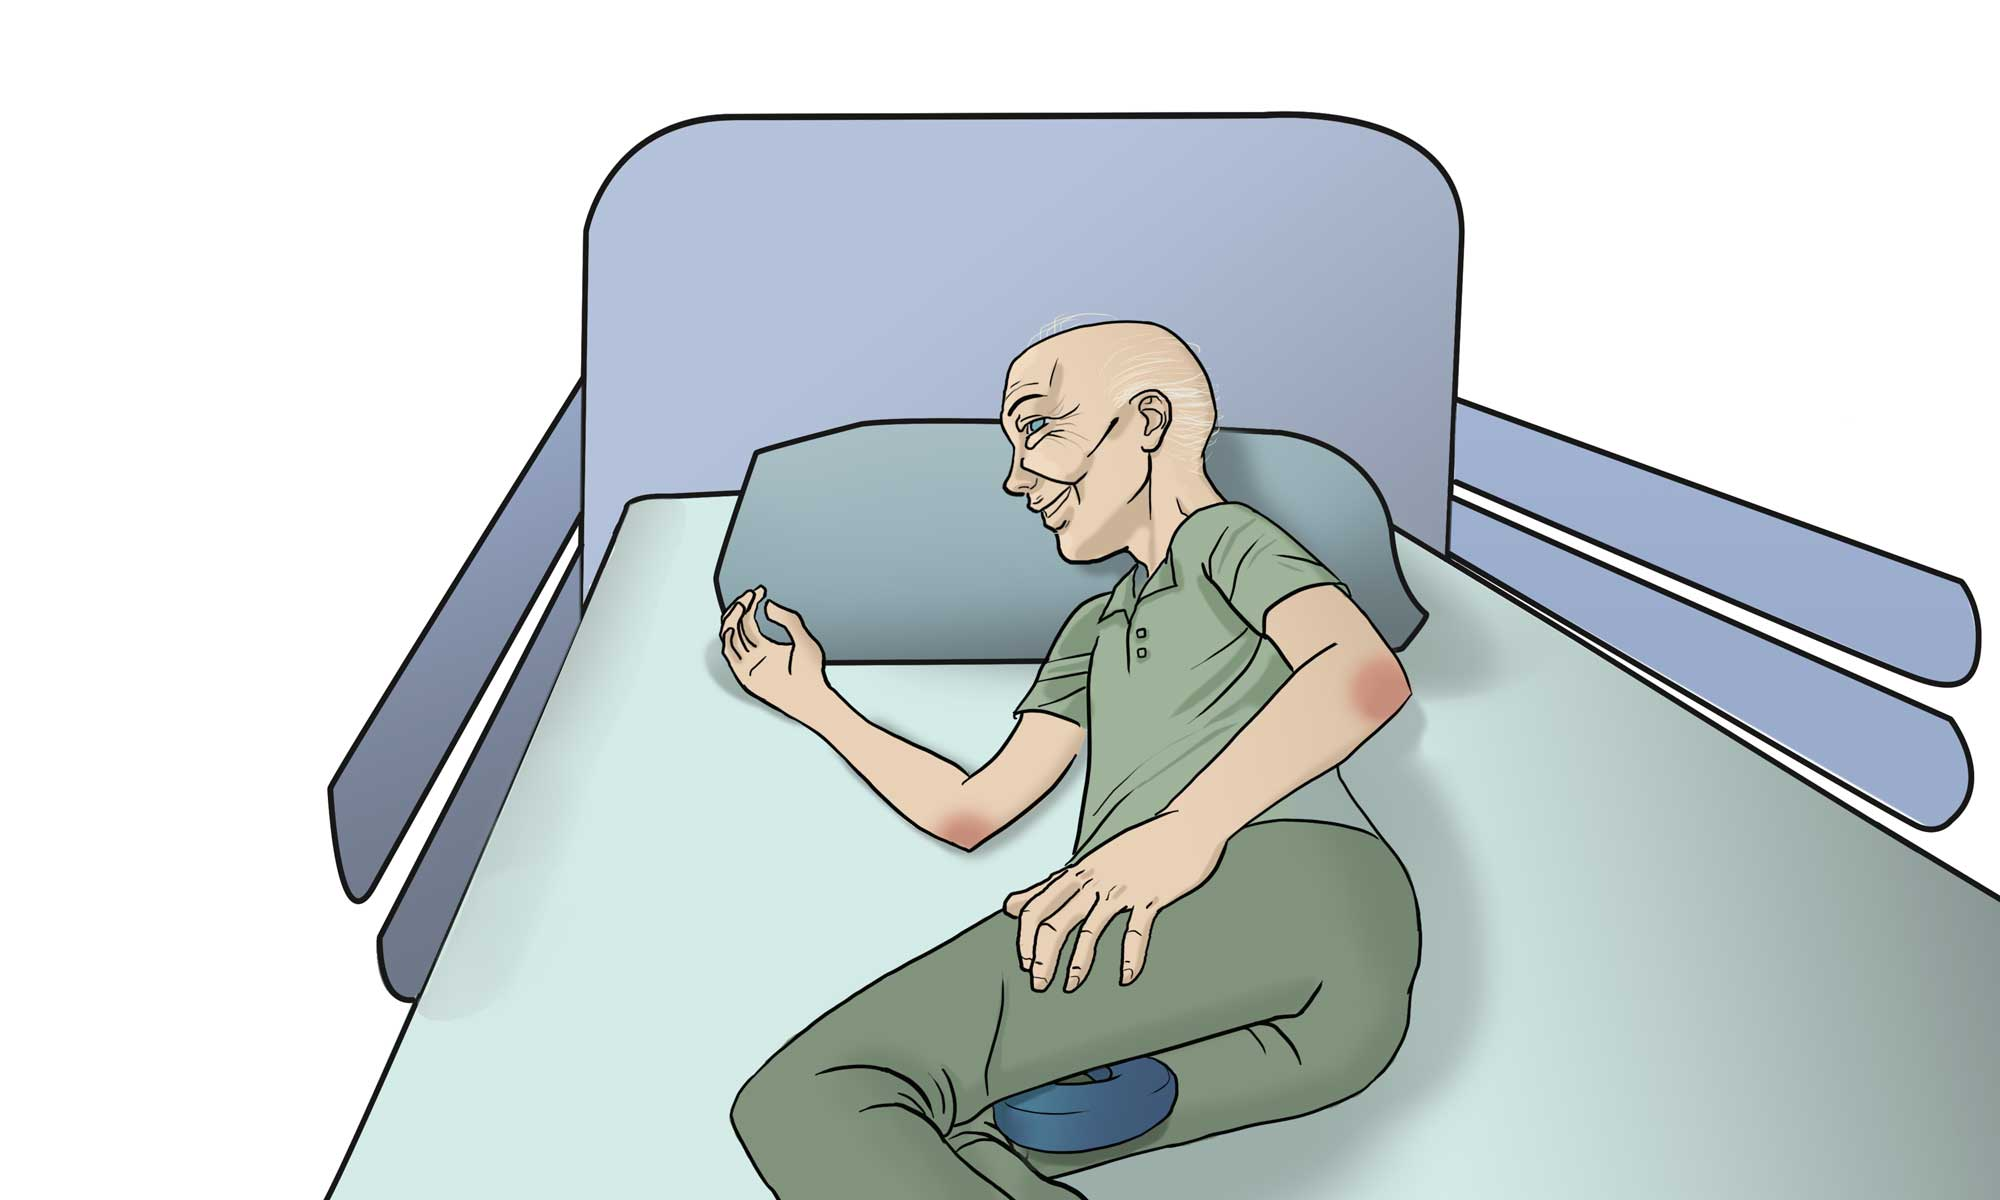
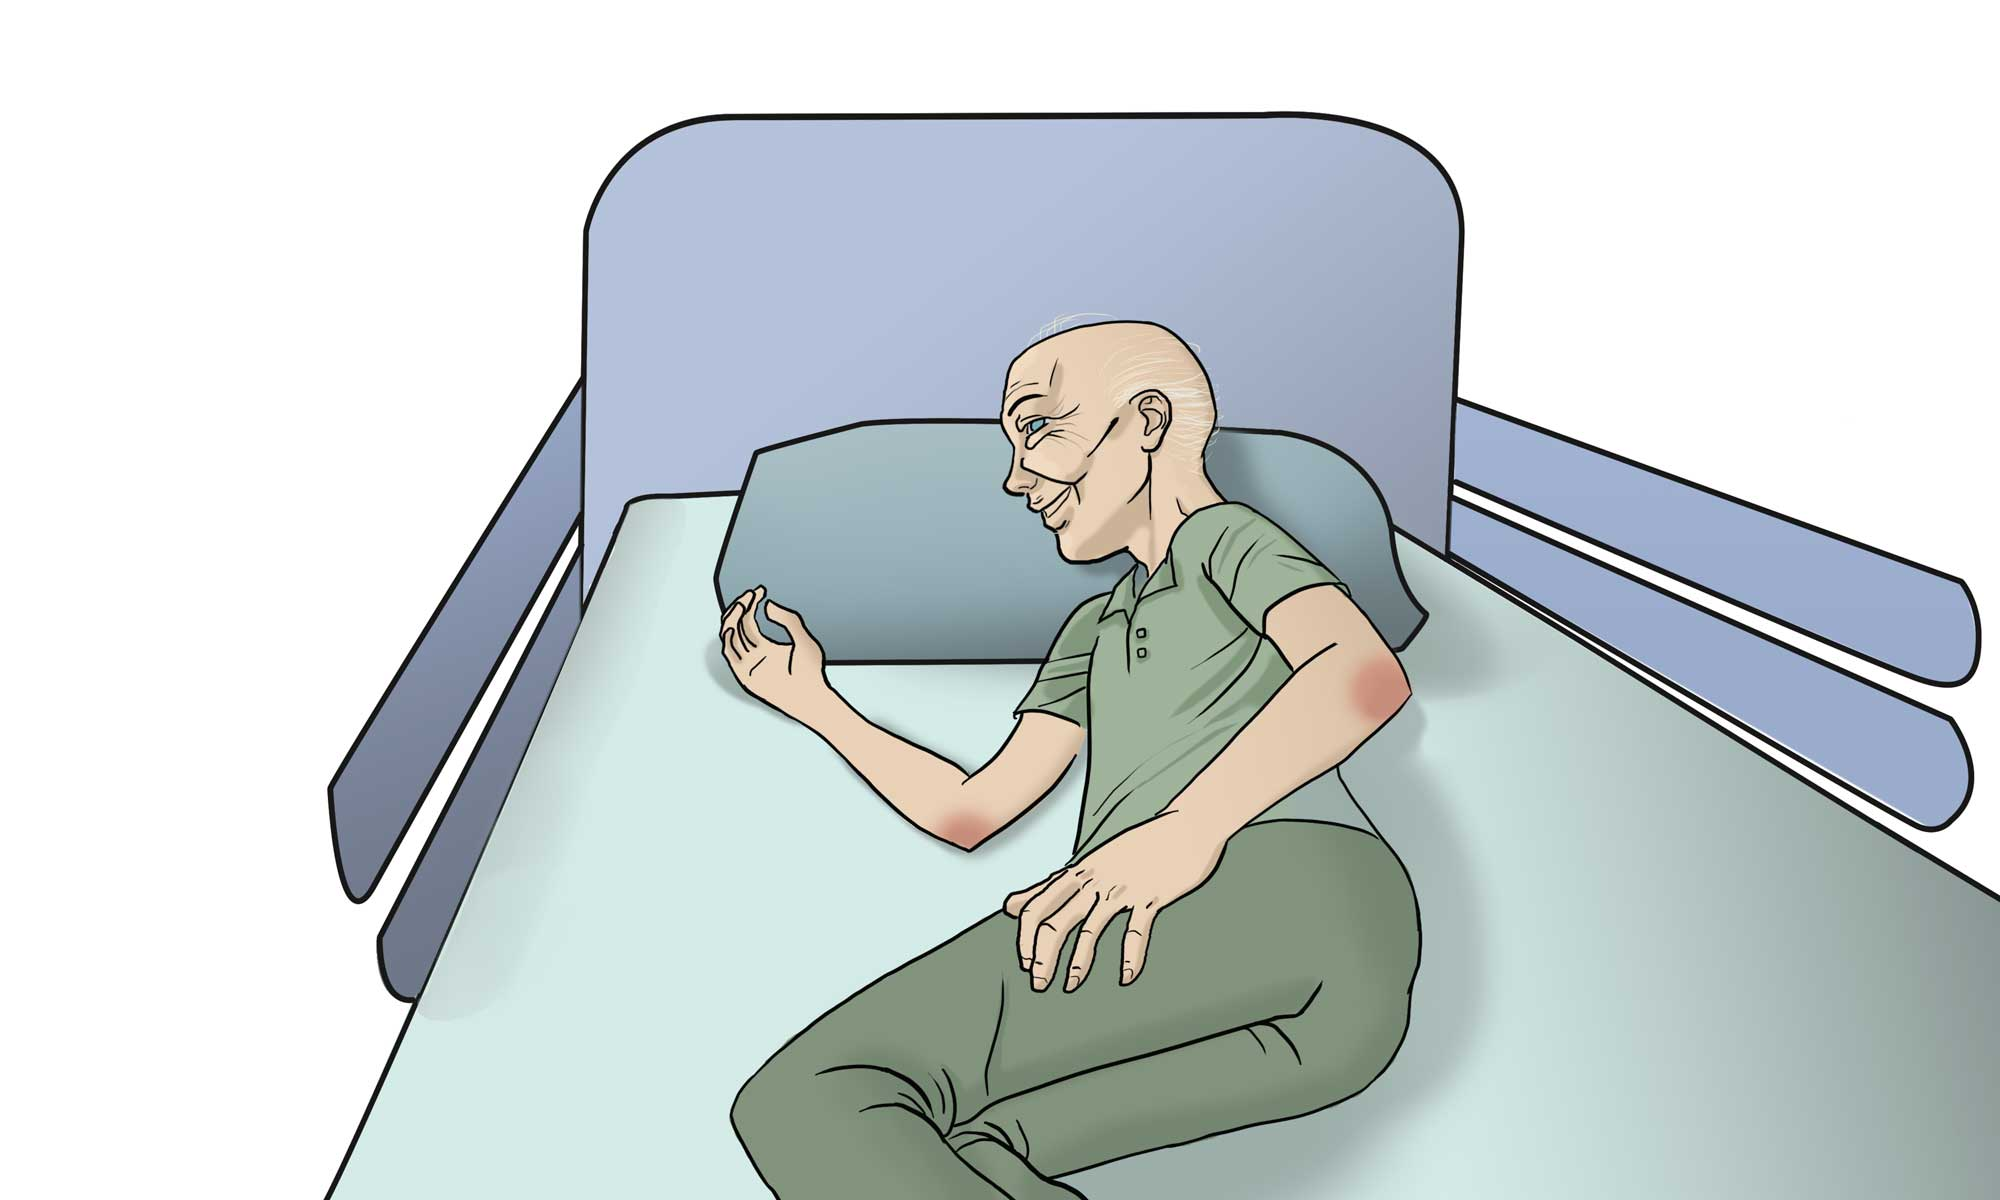
Finishing first alpha version with tutorial and level 1

Changed region(s): [[0.496, 0.8633, 0.589, 0.9867]]

diff --git a/src/scripts/gameConfig/file2.js b/src/scripts/gameConfig/file2.js
@@ -374,6 +374,7 @@ define(['levelsData_interface', 'Scene', 'Action', 'Level', 'Dialog', 'Interacti
                 else{
                     ala_masculinaAction(false);
                     level.getFlag("lavar_maos").setValue(false);
+                    core.changeSceneCssClassTo("scene-ala_masculina-coxim");
                     core.setActionVisible("btn-lavar_maos", true);
                     core.setActionVisible("btn-ler_prontuario", true);
                 }
@@ -583,11 +584,13 @@ define(['levelsData_interface', 'Scene', 'Action', 'Level', 'Dialog', 'Interacti
         function mudarPosicaoPaciente(){
             L.log("Action: mudar posição do paciente");
             core.setActionVisible("btn-mudar_posicao_paciente", false);
+            core.changeSceneCssClassTo("scene-leito-char-02-virado");
             core.setActionVisible("btn-posicionar_coxim", true);
         }
         function posicionarCoxim(){
             L.log("Action: posicionar coxim");
             level.getFlag("posicionou_coxim").setValue(true);
+            core.changeSceneCssClassTo("scene-leito-char-02-coxim");
             core.setActionVisible("btn-posicionar_coxim", false);
             core.setActionVisible("btn-ir_ala_masculina", true);
         }
@@ -724,28 +727,30 @@ define(['levelsData_interface', 'Scene', 'Action', 'Level', 'Dialog', 'Interacti
         /*
          Scene:  Fim do Level
          */
-        var fim_level = new Scene("Fim da fase", "scene-fim-level",
-            fimTutorialOnload, fimTutorialOnUnload);
+        var fim_alfa = new Scene("Fim da fase", "scene-fim-alfa",
+            fimalfaOnLoad, fimalfaOnUnload);
         // Flags
+
         // Dialogs
+
         // Functions
-        function fimTutorialOnload(){
-            core.setActionVisible("btn-proxima_fase", true);
+        function fimalfaOnLoad(){
+            core.setActionVisible("btn-voltar_menu", true);
         }
-        function fimTutorialOnUnload(){
+
+        function fimalfaOnUnload(){
 
         }
 
-        function fimTutorialIrCorredor(){
-            L.log("Proxima fase" + core);
-            //core.changeLevelTo(2);
+        function fimalfaMenu(){
+            L.log("Voltar ao menu");
+            core.goBackToMenu();
         }
 
         // Actions
-        fim_level.registerAction(
-            new Action("btn-proxima_fase", "Ir a recepção",
-                "action-ir_recepcao", fimTutorialIrCorredor, visibility));
-
+        fim_alfa.registerAction(
+            new Action("btn-voltar_menu", "Voltar ao Menu Principal",
+                "action-voltar_menu", fimalfaMenu, visibility));
 
         // Registrar cenas no level
         level.registerScene(recepcao);
@@ -753,7 +758,7 @@ define(['levelsData_interface', 'Scene', 'Action', 'Level', 'Dialog', 'Interacti
         level.registerScene(ala_masculina);
         level.registerScene(leito);
         level.registerScene(posto_de_enfermagem);
-        level.registerScene(fim_level);
+        level.registerScene(fim_alfa);
 
         // Cena inicial é recepcao
         level.setInitialScene(0);

diff --git a/src/scripts/gameConfig/file1.js b/src/scripts/gameConfig/file1.js
@@ -482,7 +482,7 @@ define(['levelsData_interface', 'Scene', 'Action', 'Level', 'Dialog', 'Interacti
                 case 2:
                     level.getFlag("lavar-maos").setValue(3);
                     core.setActionVisible("btn-lavar_maos", false);
-                    core.setActionVisible("btn-anotar_prontuario", true);
+                    core.setActionVisible("btn-ler_prontuario", true);
                     break;
             }
         }
@@ -532,8 +532,13 @@ define(['levelsData_interface', 'Scene', 'Action', 'Level', 'Dialog', 'Interacti
             }
         }
 
+        function lerProntuario(){
+            L.log("Action: ler prontuario");
+            core.openModalScene("Prontuario");
+        }
         function anotarProntuario(){
             L.log("Action: anotar prontuario");
+            core.closeModalScene("Prontuario");
             core.changeScene(5);
         }
 
@@ -571,13 +576,12 @@ define(['levelsData_interface', 'Scene', 'Action', 'Level', 'Dialog', 'Interacti
                 "action-medir_freq_respiratoria", leitoMedirFreqRespiratoria, visibility));
 
         leito.registerAction(
-            new Action("btn-anotar_prontuario", "Anotar prontuario",
-                "action-anotar_prontuario", anotarProntuario, visibility));
+            new Action("btn-ler_prontuario", "Ler prontuario",
+                "action-ler_prontuario", lerProntuario, visibility));
 
         /*
             Modal
          */
-
         var pulseira = new Scene("Pulseira", "modalScene-pulseira");
 
         function leitoLargarPulseira(){
@@ -607,6 +611,16 @@ define(['levelsData_interface', 'Scene', 'Action', 'Level', 'Dialog', 'Interacti
                 "intObj-confirmar_pulseira", leitoConfirmarPulseira, visibility));
 
         level.registerModalScene(pulseira);
+
+        // Modal
+        var prontuario = new Scene("Prontuario", "modalScene-prontuario_joao");
+
+        prontuario.registerAction(
+            new Action("btn-anotar_prontuario", "Anotar prontuário",
+                "action-anotar_prontuario", anotarProntuario, true)
+        );
+
+        level.registerModalScene(prontuario);
 
         /*
          Scene: Posto de Enfermagem

diff --git a/src/styles/gameConfig/main.less b/src/styles/gameConfig/main.less
@@ -98,12 +98,17 @@ html, body {
 @bg-corredor: url('./images/scenes/corredor.jpg');
 @bg-enfermaria: url('./images/scenes/enfermaria.jpg');
 @bg-fim-level: url('./images/scenes/fim-level.jpg');
+@bg-leito-char-02-virado: url('./images/scenes/leito-char-02-virado.jpg');
+@bg-leito-char-02-coxim: url('./images/scenes/leito-char-02-coxim.jpg');
+@bg-ala_masculina-coxim: url('./images/scenes/ala_masculina-paciente-virado.jpg');
+@bg-fim-alfa: url('./images/scenes/encerra-provisoria-alfa.jpg');
 
 // modalScenes.less
 @bg-gaveta: url('./images/modalScenes/gaveta.png');
 @bg-pulseira: url('./images/modalScenes/pulseira.png');
 @bg-carlos_esme_gouvea: url('./images/modalScenes/carlos-esme-gouvea.jpg');
 @bg-prontuario_carlos: url('./images/modalScenes/prontuario_carlos.jpg');
+@bg-prontuario_joao: url('./images/modalScenes/prontuario_joao.jpg');
 
 // interactiveObjects.less
 @bg-grad_esq: url('./images/interactiveObjects/bg_lateral_esq.png');
@@ -187,6 +192,8 @@ html, body {
 
 @mudar_posicao_paciente: url('./images/action_buttons/mudar_posicao_paciente.jpg');
 @mudar_posicao_paciente-disabled: url('./images/action_buttons/mudar_posicao_paciente-disabled.jpg');
+
+@voltar_menu: url('./images/action_buttons/voltar_menu.jpg');
 // dialogModal.less
 @char-recepcionista: url('./images/characters/char-recepcionista.jpg');
 @char-mentor: url('./images/characters/char-mentor.jpg');

diff --git a/src/styles/gameConfig/scenesBackgroundImages.less b/src/styles/gameConfig/scenesBackgroundImages.less
@@ -9,7 +9,10 @@
   background-image: @bg-ala_masculina;
   &:extend(.scene);
 }
-
+.scene-ala_masculina-coxim {
+  background-image: @bg-ala_masculina-coxim;
+  &:extend(.scene);
+}
 .scene-ala_feminina {
   background-image: @bg-ala_feminina;
   &:extend(.scene);
@@ -27,6 +30,16 @@
 
 .scene-leito-char-02 {
   background-image: @bg-leito-char-02;
+  &:extend(.scene);
+}
+
+.scene-leito-char-02-virado {
+  background-image: @bg-leito-char-02-virado;
+  &:extend(.scene);
+}
+
+.scene-leito-char-02-coxim {
+  background-image: @bg-leito-char-02-coxim;
   &:extend(.scene);
 }
 
@@ -57,5 +70,9 @@
 
 .scene-fim-level {
   background-image: @bg-fim-level;
+  &:extend(.scene);
+}
+.scene-fim-alfa {
+  background-image: @bg-fim-alfa;
   &:extend(.scene);
 }

diff --git a/src/styles/less/largeDevices.less b/src/styles/less/largeDevices.less
@@ -11,6 +11,10 @@
 @modalScene-prontuario-width: 800px;
 @modalScene-prontuario-height: 624px;
 @modalScene-prontuario-margin: 2% auto 0;
+@modalScene-prontuario_joao-width: 800px;
+@modalScene-prontuario_joao-height: 433px;
+@modalScene-prontuario_joao-margin: 5% auto 0;
+
 
 //  actionThumbnails
 @actionButton-width: 8%;
@@ -52,7 +56,6 @@
 @intObj-confirmar_pulseira-left: 0;
 @intObj-confirmar_pulseira-height: 100%;
 @intObj-confirmar_pulseira-width: 100%;
-
 @intObj-coxim-top: 10%;
 @intObj-coxim-left: 34%;
 @intObj-coxim-height: 1 * 400px;

diff --git a/src/styles/gameConfig/modalScenes.less b/src/styles/gameConfig/modalScenes.less
@@ -31,7 +31,15 @@
   height: @modalScene-pulseira-height;
   margin: @modalScene-pulseira-margin;
 }
-
+.modalScene-prontuario_joao {
+  background-image: @bg-prontuario_joao;
+  background-size: contain;
+  background-repeat: no-repeat;
+  position: relative;
+  width: @modalScene-prontuario_joao-width;
+  height: @modalScene-prontuario_joao-height;
+  margin: @modalScene-prontuario_joao-margin;
+}
 .modalScene-prontuario_carlos {
   background-image: @bg-prontuario_carlos;
   background-size: contain;

diff --git a/src/styles/gameConfig/actionsThumbnails.less b/src/styles/gameConfig/actionsThumbnails.less
@@ -161,3 +161,6 @@
 .action-mudar_posicao_paciente.disabled {
   background-image: @mudar_posicao_paciente-disabled;
 }
+.action-voltar_menu{
+  background-image: @voltar_menu;
+}
